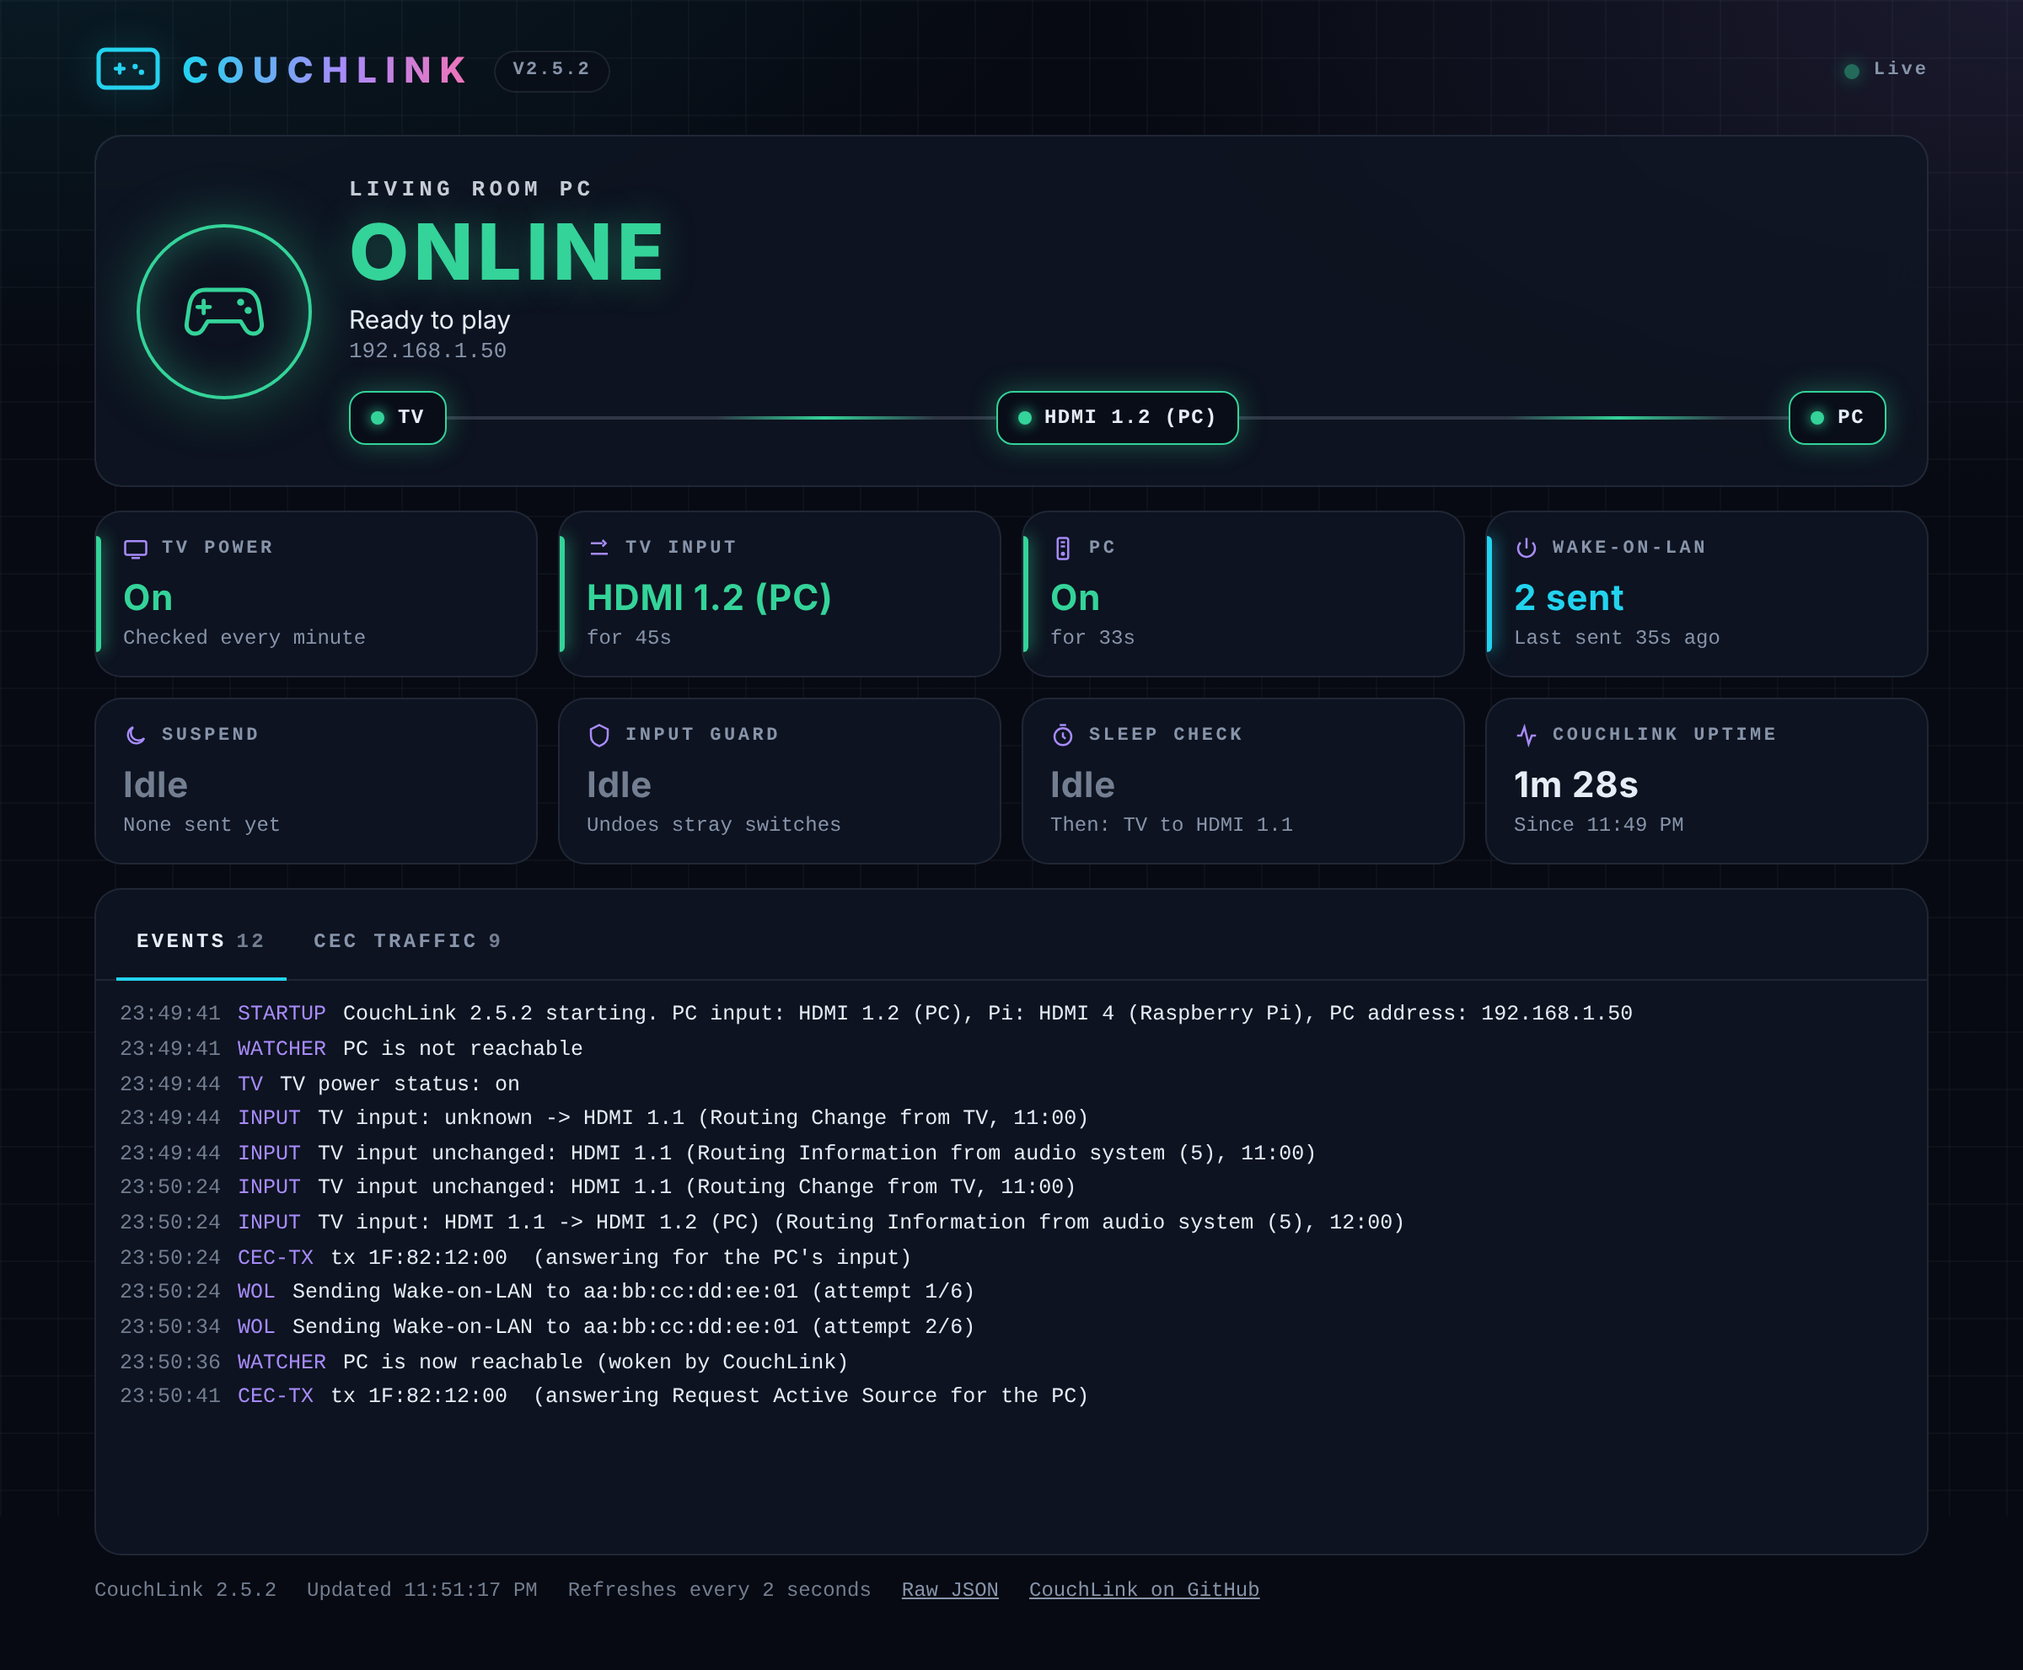
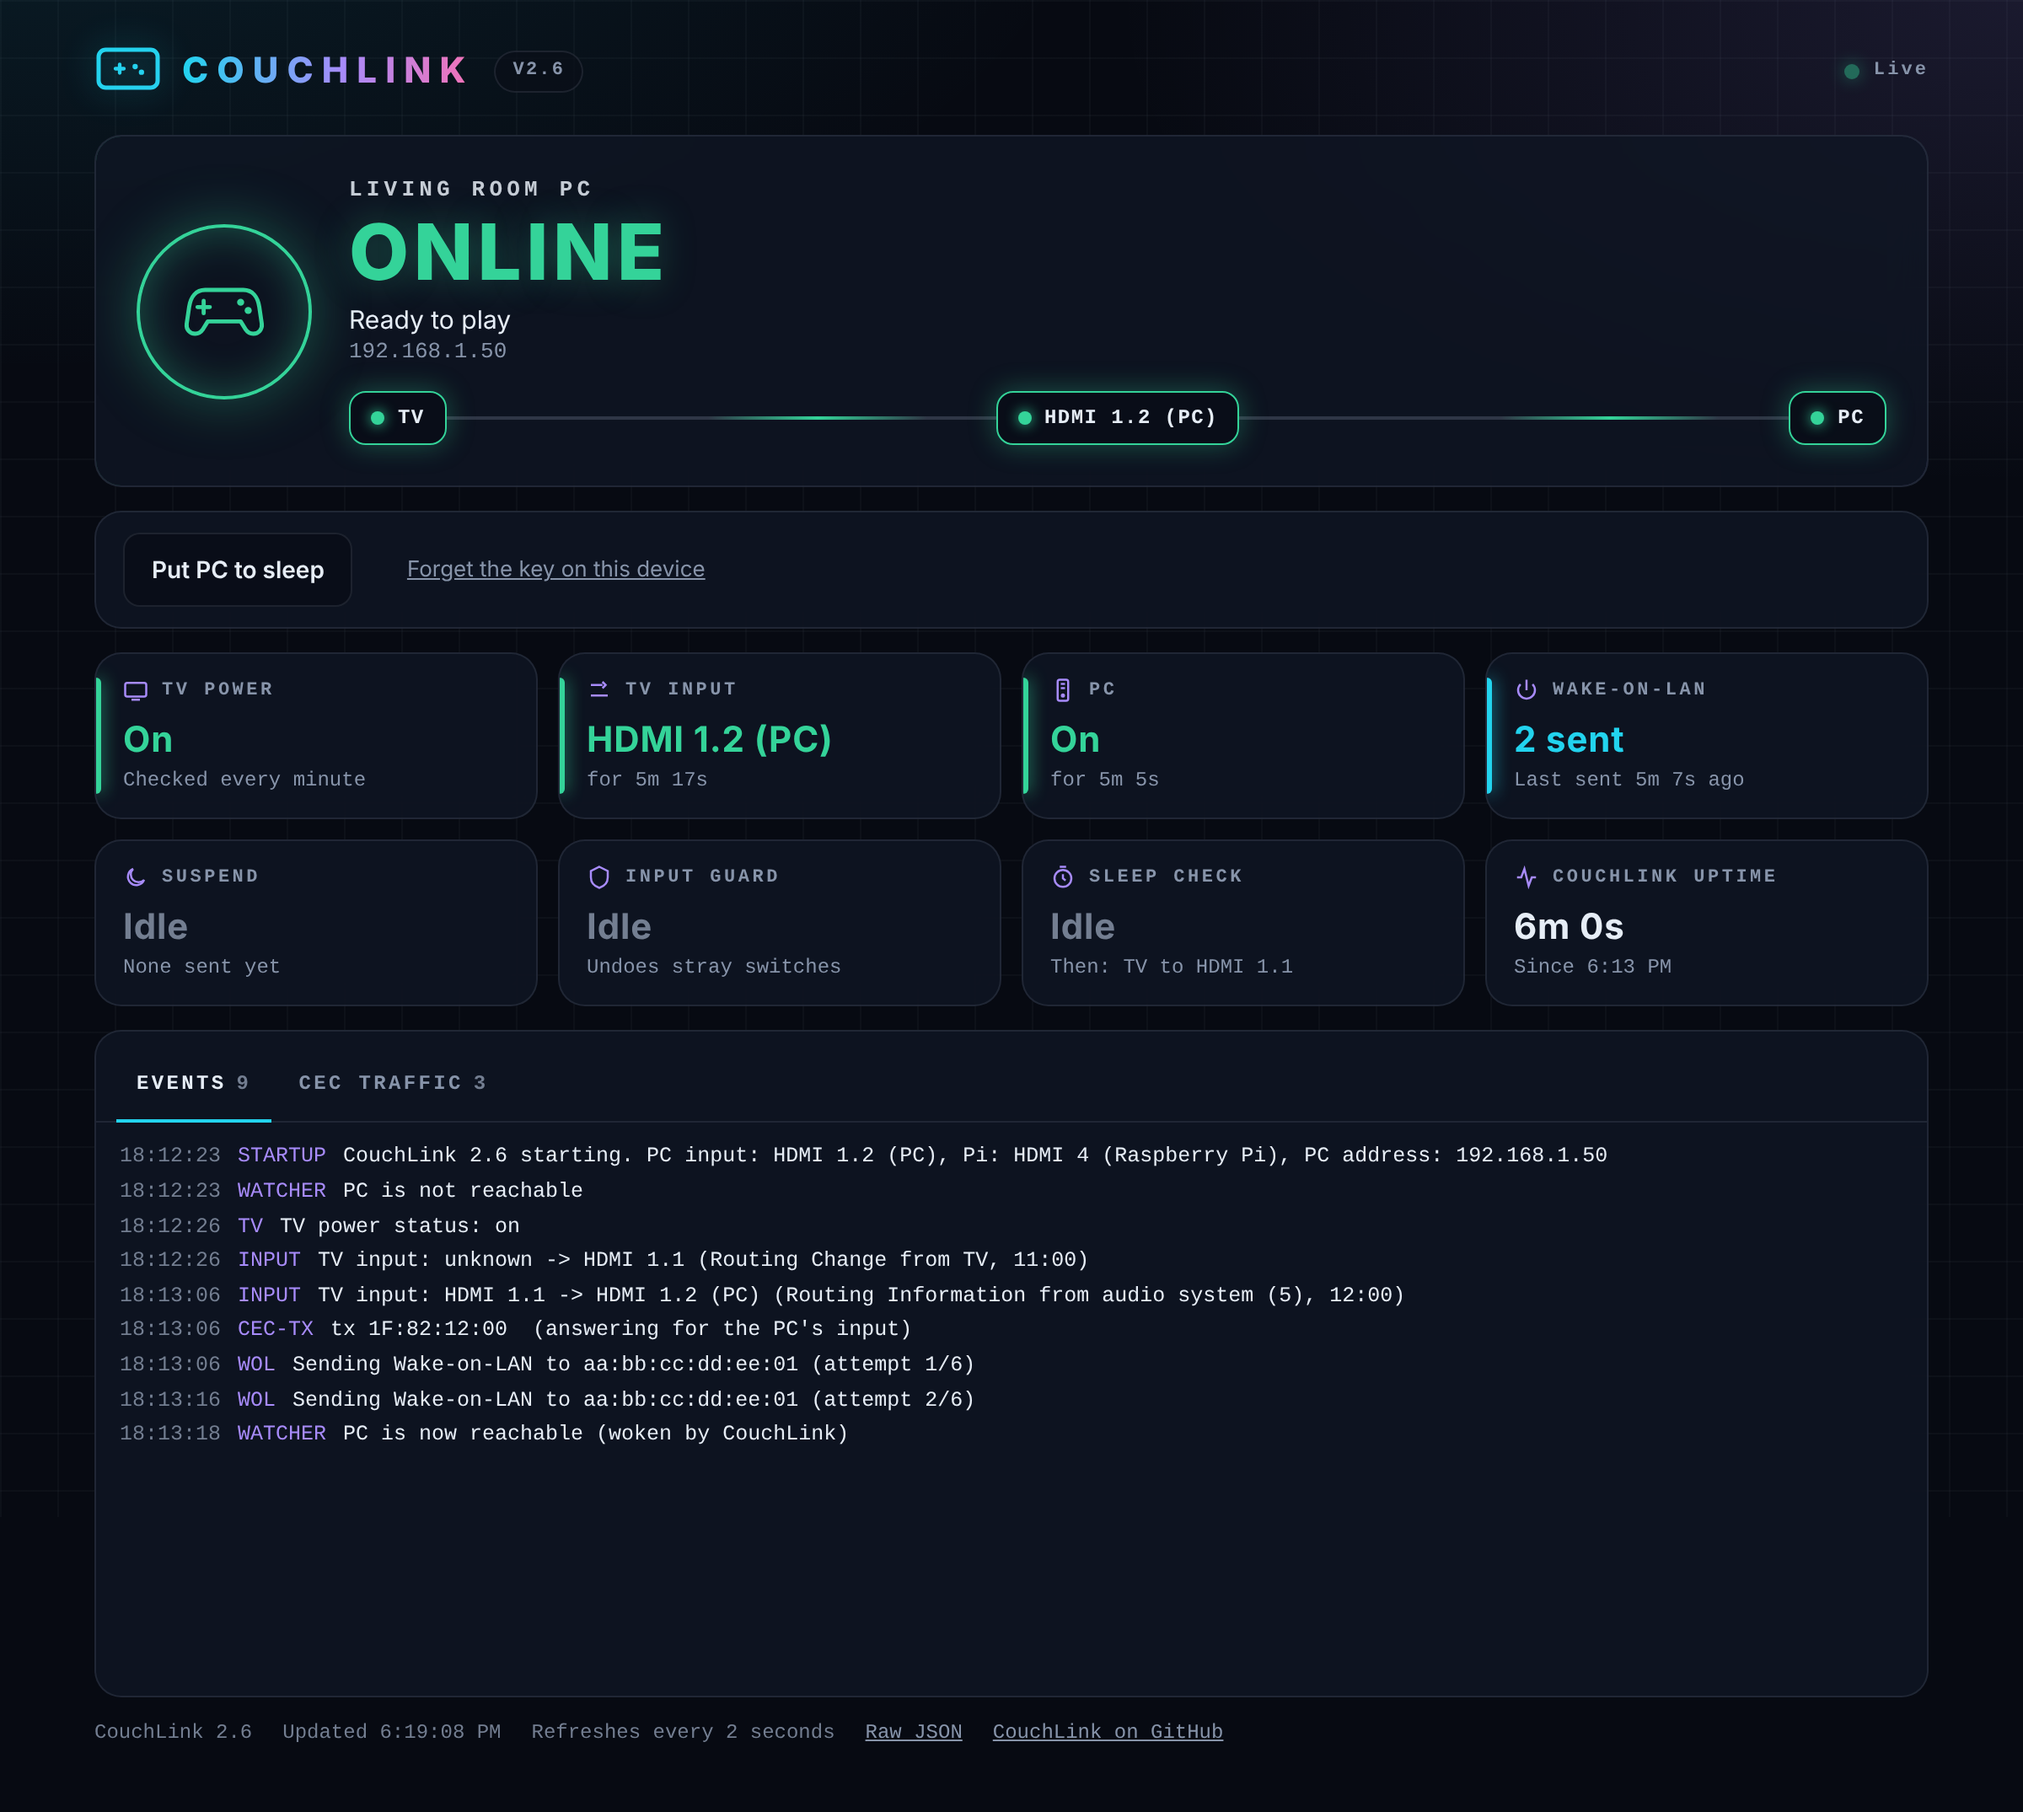
Bump to 2.6 and bring the docs up to date
VERSION and the program's description say 2.6. Release v2.6 was tagged
before this, so it reported 2.5.2.

install.sh warns when a release's version doesn't match its tag, so a
release tagged before its version bump is easy to spot.

README: remote play, the wake and sleep buttons and API, and guided setup
in What it does. how-it-works: the same, and that a remote session keeps
the PC awake whatever the TV does. installation: a Changing settings later
section with --setup, --setup-cec and --new-api-key. troubleshooting: rows
for the CEC finder, the buttons, the API key and remote play, and the
limits on starting remote sessions and on security. The docs index and
preparing-the-pc point to the new commands. New status page screenshot.

diff --git a/couchlink.py b/couchlink.py
@@ -1,7 +1,7 @@
 #!/usr/bin/env python3
 # SPDX-License-Identifier: GPL-3.0-or-later
 """
-CouchLink 2.5.2
+CouchLink 2.6
 
 Makes a SteamOS or Bazzite gaming PC behave like a console on the TV. Runs on a
 Raspberry Pi on the TV's HDMI-CEC bus and keeps the PC's power state in line
@@ -13,6 +13,10 @@ with the TV:
 and the other way round: if the PC wakes by itself (controller, power button)
 the TV turns on and switches to it, and if the PC goes to sleep by itself the
 TV can switch to another input.
+
+A remote session keeps the PC awake without the TV, for streaming. The status
+page and its API (POST /api/..., with an API key) can wake the PC, with or
+without the TV, and put it to sleep. --setup and --setup-cec fill in the config.
 
 Design notes:
   * One controller thread owns all state. The CEC reader, the pinger and the
@@ -52,7 +56,7 @@ except ModuleNotFoundError:          # Python < 3.11
     except ModuleNotFoundError:
         tomllib = None
 
-VERSION = "2.5.2"
+VERSION = "2.6"
 DEFAULT_CONFIG_PATH = "/etc/couchlink/config.toml"
 EX_CONFIG = 78
 

diff --git a/test_couchlink.py b/test_couchlink.py
@@ -922,6 +922,13 @@ class InstallerTests(unittest.TestCase):
         self.assertIn("Your config needed no changes for the new version", out)
         self.assertFalse(os.path.exists(conf + ".bak"))
 
+    def test_update_warns_when_the_tag_and_version_differ(self):
+        version = couchlink.VERSION
+        code, out = self.install("--update", "--local", COUCHLINK_RELEASE_TAG=f"v{version}")
+        self.assertNotIn("calls itself version", out)
+        code, out = self.install("--update", "--local", COUCHLINK_RELEASE_TAG="v9.9")
+        self.assertIn(f"Release v9.9 calls itself version {version}", out)
+
     def test_failed_update_leaves_the_config_alone(self):
         conf = os.path.join(self.root, "etc/couchlink/config.toml")
         with open(conf, "w") as f:

diff --git a/docs/troubleshooting.md b/docs/troubleshooting.md
@@ -8,7 +8,8 @@ Common problems, what to check, and the known limitations.
 |---|---|
 | The service exits straight away | Run `--check-config`. It lists every problem. |
 | `Unknown setting` errors | The installed script is older than your config, or the setting has a typo. Run the installer with `--update`, or run `sudo couchlink --migrate-config` to fix typos and old settings. |
-| `scan` shows no devices | CEC is off in the TV's settings, or the Pi was not connected to the TV at boot. Reboot with the TV connected. |
+| `scan` shows no devices, or `--setup-cec` says no CEC devices answered | CEC is off in the TV's settings, or the Pi was not connected to the TV at boot. Reboot with the TV connected. |
+| `--setup-cec` does not hear the switch to the PC | Your TV may not announce input changes. Type the input number when it asks. If the PC is already on screen, switch away first, then back. |
 | No input changes are logged | Turn on `raw_debug` and look at what your TV sends when you switch. Make sure `watch_routing_messages` is on. |
 | The PC never wakes | Test with `wakeonlan <mac>` from the Pi. Check the BIOS and OS wake settings. Try a subnet `wol_broadcast`. |
 | `SSH ended with 255`, then `Confirmed: the PC went to sleep` | Normal. The connection drops as the PC suspends. |
@@ -21,6 +22,11 @@ Common problems, what to check, and the known limitations.
 | The PC is suspended while you use it | Check the log for the input that was announced just before. If it came from the soundbar or another device, `ignore_announcements_from` or `guard_addresses` may help. |
 | The TV switches away after the PC wakes | Look for `RECOVER` lines. If they appear but the TV does not come back, your TV may ignore the Pi's Active Source messages. |
 | The TV is slow to switch to the PC after a controller wake | Look for `TV reports that it is on`. If the log shows `did not report that it is on` instead, your TV does not answer power queries while it starts. Lower `tv_boot_timeout`. |
+| The status page has no wake and sleep buttons | Make an API key with `sudo couchlink --new-api-key`, then `sudo systemctl restart couchlink`. |
+| The buttons say `Wrong API key` | The page asks for the key again. If you lost it, make a new one with `sudo couchlink --new-api-key`. |
+| The API answers `locked_out` | 5 wrong keys came from that address within a minute. Wait a minute. |
+| The TV turns on when you wake the PC to stream | The PC was woken by something else, such as Moonlight or a phone app, so CouchLink treats it like a controller wake. Use Wake PC on the status page or `POST /api/wake` with `{"tv": false}` instead. |
+| The PC goes back to sleep while you stream to another device | Start the stream with Wake PC, which starts a [remote session](how-it-works.md#remote-sessions). Without one, CouchLink suspends the PC when the TV is not on its input. |
 | Uploads to `/etc/couchlink` fail | That folder belongs to root. Copy the file to your home folder and use `sudo install -m 644 <file> /etc/couchlink/config.toml`. |
 
 ## Known limitations
@@ -45,9 +51,14 @@ Common problems, what to check, and the known limitations.
   power-off. Wired Ethernet is much more reliable.
 - **Remote buttons only reach the Pi** if the TV sends them to it. That
   depends on the TV accepting the Pi as the active source.
+- **Only CouchLink can start a remote session.** Waking the PC any other way,
+  such as with Moonlight's own Wake-on-LAN, looks the same as a controller
+  wake, so the TV turns on.
 - **Security.** The Pi holds an SSH key that can log in to the PC. The sudoers
-  rule limits it to the suspend command. Keep the Pi and the status page on a
-  trusted network.
+  rule limits it to the suspend command. The wake and sleep actions need the
+  API key, but the read-only status page has no login, and CouchLink serves
+  plain HTTP. Keep the Pi on a trusted network, and use a VPN to reach it from
+  outside the home.
 
 ---
 

diff --git a/docs/how-it-works.md b/docs/how-it-works.md
@@ -1,6 +1,6 @@
 # How it works
 
-What CouchLink does in detail, the layout it was built on, the rule it enforces, and the CEC messages it listens for.
+What CouchLink does in detail, the layout it was built on, the rule it enforces, the CEC messages it listens for, and remote sessions.
 
 ## Why this exists
 
@@ -24,6 +24,11 @@ you switched inputs or turned the TV off.
   alone. It never wakes the PC back up.
 - **Undoes automatic input switches** that some TVs and soundbars make right
   after a device wakes up.
+- **Keeps the PC awake for remote play.** A [remote session](#remote-sessions)
+  keeps the PC awake without the TV, for streaming to another device.
+- **Takes requests** from the wake and sleep buttons on the status page, and
+  from scripts and Home Assistant through an API with a key. See
+  [Status page and logs](status-page-and-logs.md#wake-and-sleep-buttons).
 - **Optional:** forwards TV remote buttons to the PC as a USB keyboard.
 - **Safe to try:** a dry-run mode that watches and logs without changing
   anything, a small status page, and offline tests.
@@ -54,6 +59,9 @@ Any layout works as long as you tell CouchLink which address belongs to the PC.
 | Any other input | Asleep | Waits 5 seconds, then suspends the PC over SSH |
 | Standby | Asleep | Same as above |
 | Not known yet | Left alone | Waits for the TV to announce an input |
+
+During a [remote session](#remote-sessions), the PC stays awake whatever the
+TV is doing.
 
 ## CEC messages it listens for
 

diff --git a/docs/README.md b/docs/README.md
@@ -4,10 +4,10 @@
 |---|---|
 | [Installation](installation.md) | What you need, installing on the Pi, the dry run, going live and updating |
 | [Preparing the PC](preparing-the-pc.md) | SSH, the suspend rule and waking, on SteamOS and Bazzite |
-| [Configuration](configuration.md) | Finding your CEC addresses, the config file and every setting |
-| [Status page and logs](status-page-and-logs.md) | Following what CouchLink does |
+| [Configuration](configuration.md) | Guided setup, finding your CEC addresses, the config file and every setting |
+| [Status page and logs](status-page-and-logs.md) | Following what CouchLink does, the wake and sleep buttons, and the API |
 | [Troubleshooting](troubleshooting.md) | Common problems and known limitations |
-| [How it works](how-it-works.md) | The layout, the rule CouchLink enforces and the CEC messages it reads |
+| [How it works](how-it-works.md) | The layout, the rule CouchLink enforces, the CEC messages it reads, and remote sessions |
 | [Hardware and systems](hardware.md) | Supported PC systems and tested TVs and soundbars |
 | [Credits](credits.md) | Projects CouchLink builds on, related projects and trademarks |
 

diff --git a/README.md b/README.md
@@ -18,9 +18,15 @@ is installed on the PC.
   from a controller. It turns the TV on first if needed.
 - **Handles Sleep from the Steam menu.** CouchLink can switch the TV to another
   input, turn it off, or leave it alone.
+- **Remote play.** Wake the PC from the status page and keep it awake without
+  the TV, for streaming to a Steam Deck or phone with Steam Link or Moonlight.
+- **Wake and sleep buttons** on the status page, and an API with a key for
+  scripts, phone shortcuts and Home Assistant.
 - **Undoes automatic input switches** that some TVs and soundbars make right
   after a device wakes up.
 - **Optional:** forwards TV remote buttons to the PC as a USB keyboard.
+- **Guided setup:** the installer asks for your settings and finds the CEC
+  addresses with you.
 - **Safe to try:** a dry run that changes nothing, a status page, and offline
   tests.
 

diff --git a/docs/installation.md b/docs/installation.md
@@ -112,6 +112,18 @@ To stop it:
 sudo systemctl disable --now couchlink.service
 ```
 
+## Changing settings later
+
+| Command | What it does |
+|---|---|
+| `sudo bash install.sh --setup` | Asks for the settings again, all but the CEC addresses. Press Enter to keep a value. |
+| `sudo bash install.sh --setup-cec` | Finds the CEC addresses again, for example after moving a cable |
+| `sudo couchlink --new-api-key` | Makes a new key for the wake and sleep buttons and the API |
+| `sudo nano /etc/couchlink/config.toml` | Edits any setting by hand. See [Configuration](configuration.md). |
+
+Restart CouchLink after a change: `sudo systemctl restart couchlink`.
+`--setup-cec` stops and starts it by itself.
+
 ## Updating
 
 Log in to the Pi and run this in the folder that holds `install.sh`. If you

diff --git a/docs/preparing-the-pc.md b/docs/preparing-the-pc.md
@@ -117,7 +117,7 @@ wake the PC. Bazzite ships these rules for the controllers it knows about.
 ## 5. Give the Pi a key the PC trusts
 
 The service on the Pi runs as root, so the key must belong to root on the Pi.
-`sudo couchlink --setup` on the Pi offers to do this for you. To do it by
+`sudo bash install.sh --setup` on the Pi offers to do this for you. To do it by
 hand, run these **on the Pi**:
 
 ```bash
